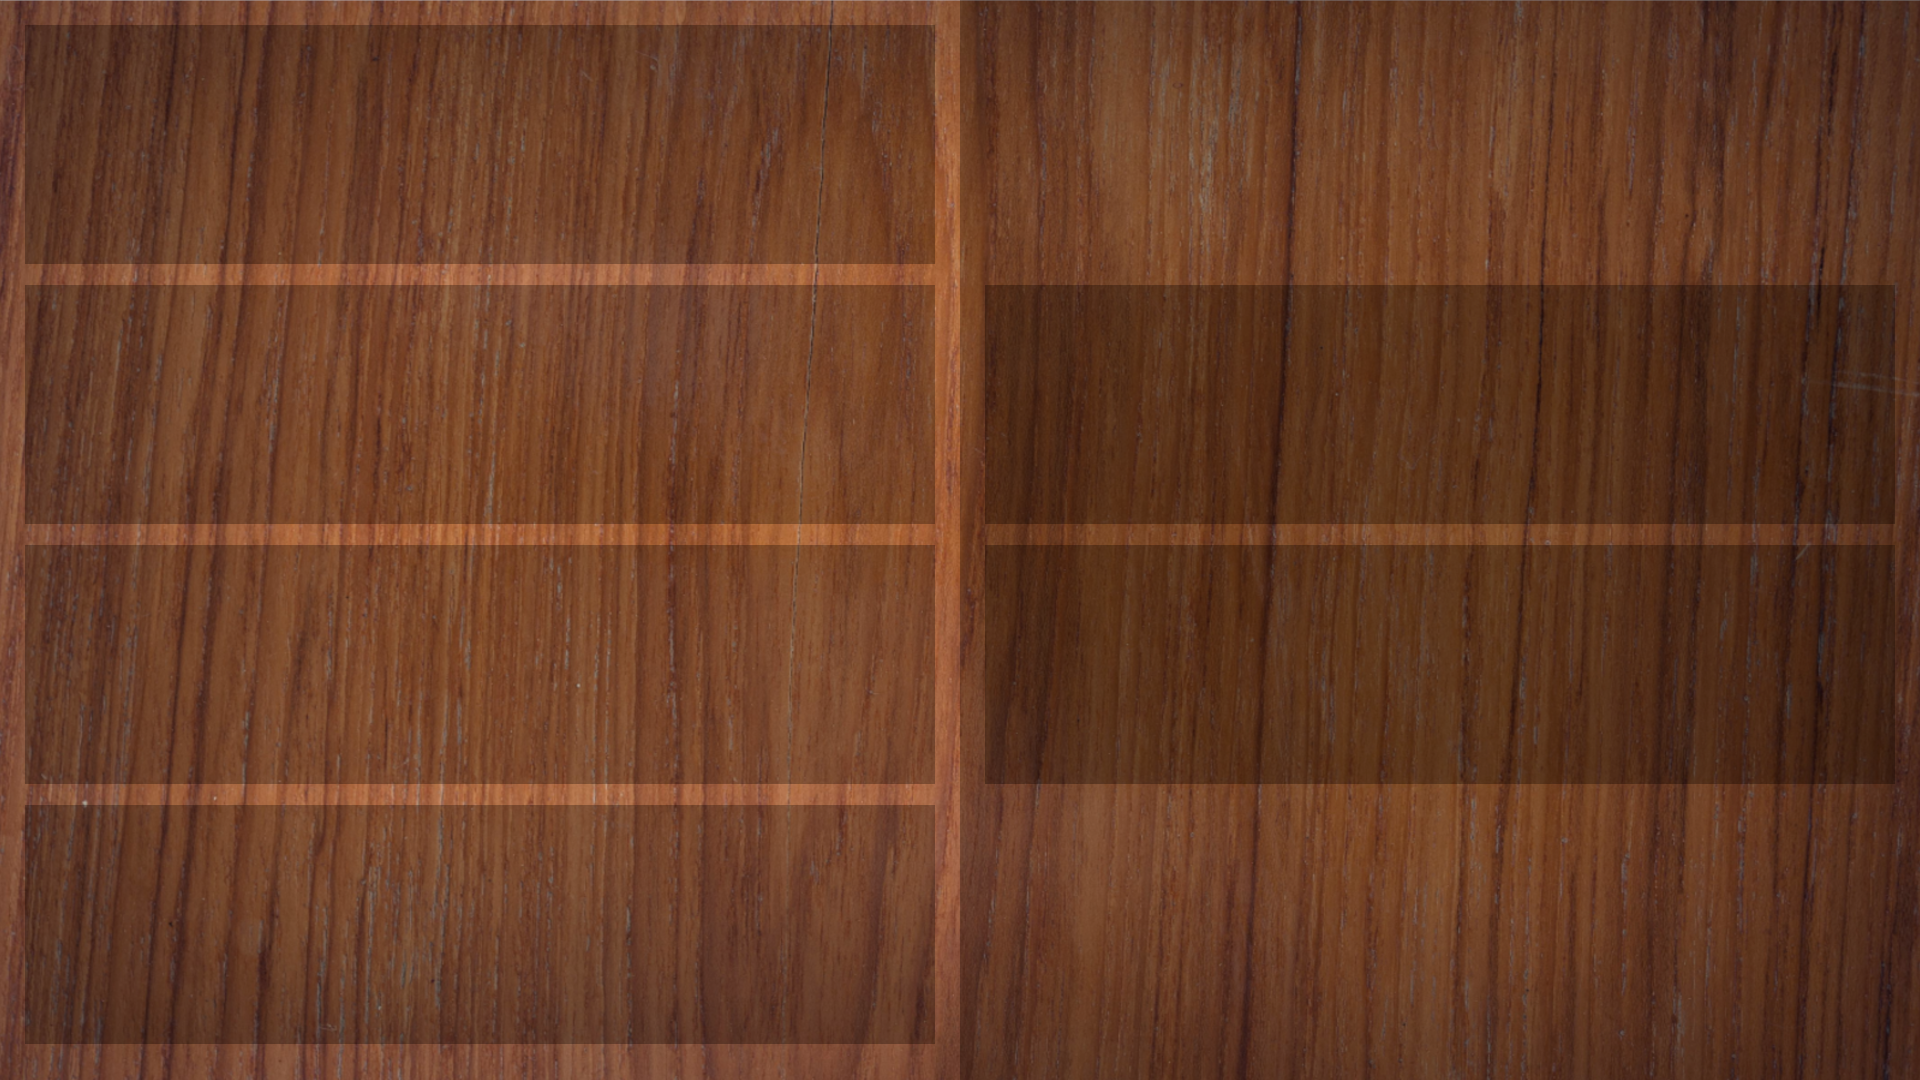
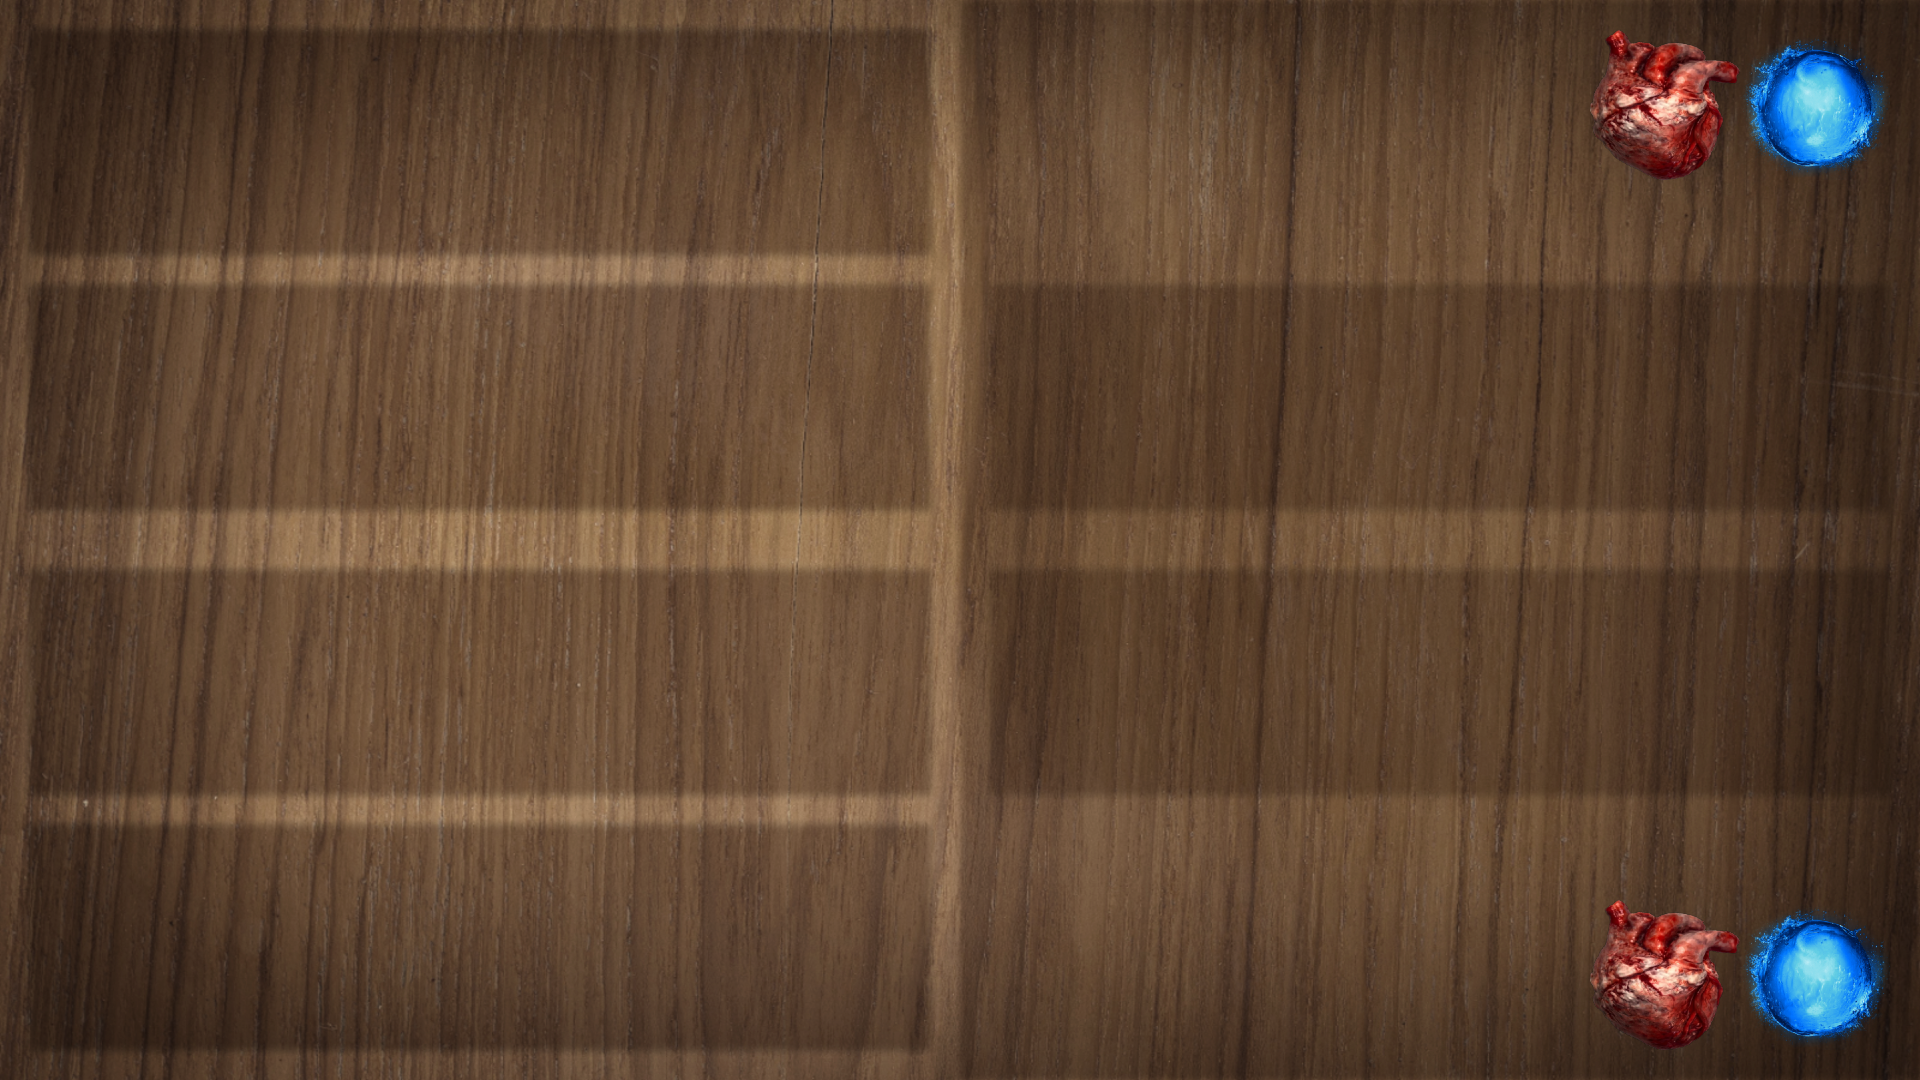
update

Changed region(s): [[0.0, 0.0, 1.0, 1.0], [0.6875, 0.0, 1.0, 0.4278], [0.9688, 0.6417, 1.0, 0.6722]]

diff --git a/templates/game.html b/templates/game.html
@@ -8,23 +8,26 @@
 
     <style>
 
+
       
       body {
+        height:1080px;
         margin: 0;
         padding: 0;
+        background-attachment: fixed;
         background-image: url('images/game_wood_background_001.png');
-        background-size: cover; /* Ensures the image covers the entire viewport */
+        /*background-size: cover; /* Ensures the image covers the entire viewport */
         background-repeat: no-repeat; /* Prevents the image from repeating */
-    }
+      }
 
       
 
       .card {
         position: absolute;
-        top: 20px; /* Adjust top position */
-        left: 20px; /* Adjust left position */
+        top: 570px; /* Adjust top position */
+        left: 985px; /* Adjust left position */
         cursor: move; /* Optional: Add a move cursor to indicate draggable */
-        height:230px;
+        height: 225px;
         z-index: 1;
       }
       .drag {
@@ -39,6 +42,7 @@
     </style>
   </head>
 <body>
+
 <div class="background">
 
 </div>
@@ -52,18 +56,30 @@
 
 
 <script>
+  
+  
+  
+  document.addEventListener('click', function() {
+      if (!document.fullscreenElement) {
+          document.documentElement.requestFullscreen().catch(err => {
+              console.log(`Error attempting to enable full-screen mode: ${err.message} (${err.name})`);
+          });
+      }
+  });
+
+
   // Select all elements with class 'card' and make them draggable
   var cards = document.getElementsByClassName("card");
   let inPlayAreas = [
-    { topLeft: { x: 25, y: 25}, bottomRight: { x: 935, y: 265}},
-    { topLeft: { x: 25, y: 285}, bottomRight: { x: 935, y: 525}},
-    { topLeft: { x: 25, y: 555}, bottomRight: { x: 935, y: 785}},
-    { topLeft: { x: 25, y: 805}, bottomRight: { x: 935, y: 1045}},
+    { topLeft: { x: 30, y: 30 }, bottomRight: { x: 930, y: 255 }},
+    { topLeft: { x: 30, y: 285}, bottomRight: { x: 930, y: 510 }},
+    { topLeft: { x: 30, y: 570}, bottomRight: { x: 930, y: 795 }},
+    { topLeft: { x: 30, y: 825}, bottomRight: { x: 930, y: 1050}},
   ];
 
   let inHandAreas = [
-    { topLeft: { x: 985, y: 285}, bottomRight: { x: 1125, y: 525}},
-    { topLeft: { x: 985, y: 555}, bottomRight: { x: 1125, y: 785}},
+    { topLeft: { x: 985, y: 285}, bottomRight: { x: 1890, y: 510}},
+    { topLeft: { x: 985, y: 570}, bottomRight: { x: 1890, y: 795}},
   ];
 
   // Loop through each card and make it draggable

diff --git a/templates/index.html b/templates/index.html
@@ -3,8 +3,39 @@
 <head>
     <meta charset="UTF-8">
     <title>Home</title>
+    <style>
+        ul {
+            list-style-type: none;
+            margin: 0;
+            padding: 0;
+            overflow: hidden;
+            background-color: #dddddd;
+        }
+
+        li {
+            float: left;
+        }
+
+        li a {
+            display: block;
+            padding: 8px;
+            text-decoration: none;
+            color: black; /* Ensure text is visible */
+        }
+
+        .float-right {
+            float: right;
+        }
+    </style>
 </head>
 <body>
+    <ul>
+        <li><a href="">Home</a></li>
+        <li><a href="">Play</a></li>
+        <li><a href="">How to Play</a></li>
+        <li class="float-right" id="cookie-menu-item"><a href="#" id="cookie-link">Cookie Value</a></li>
+    </ul>
+
     <h1>Fantasy Card Fight</h1>
     <form action="/submit" method="post">
         <input type="text" name="user_input" placeholder="Enter something">
@@ -19,6 +50,33 @@
     <a href="{{ url_for('testGame2') }}" class="btn">Go to experimental test</a>
     <br/>
     <br/>
-    <a href="{{ url_for('dbTest') }}" class="btn">database test</a>
+    <a href="{{ url_for('dbTest') }}" class="btn">Database test</a>
+
+    <script>
+        function getCookie(name) {
+            let cookies = document.cookie.split('; ');
+            for (let cookie of cookies) {
+                let [cookieName, cookieValue] = cookie.split('=');
+                if (cookieName === name) {
+                    return decodeURIComponent(cookieValue);
+                }
+            }
+            return null;
+        }
+
+        // Function to update the "Cookie Value" link text
+        function updateCookieLink() {
+            let cookieValue = getCookie('username'); // Replace 'username' with the actual cookie name
+            let cookieLink = document.getElementById('cookie-link');
+            if (cookieValue) {
+                cookieLink.textContent = cookieValue; // Update the link text with the cookie value
+            } else {
+                cookieLink.textContent = 'No Cookie Found'; // Default text if cookie is not found
+            }
+        }
+
+        // Call the function to update the link text when the page loads
+        window.onload = updateCookieLink;
+    </script>
 </body>
 </html>
